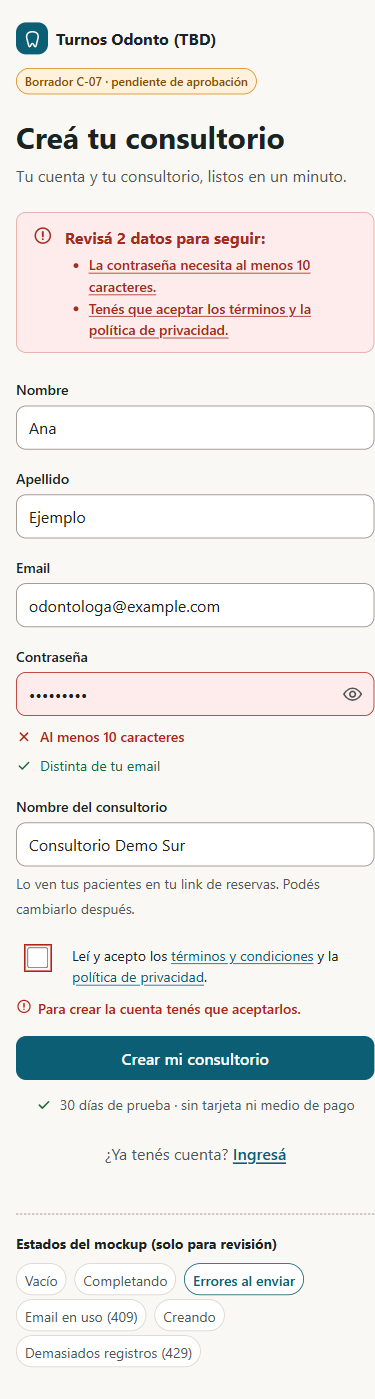
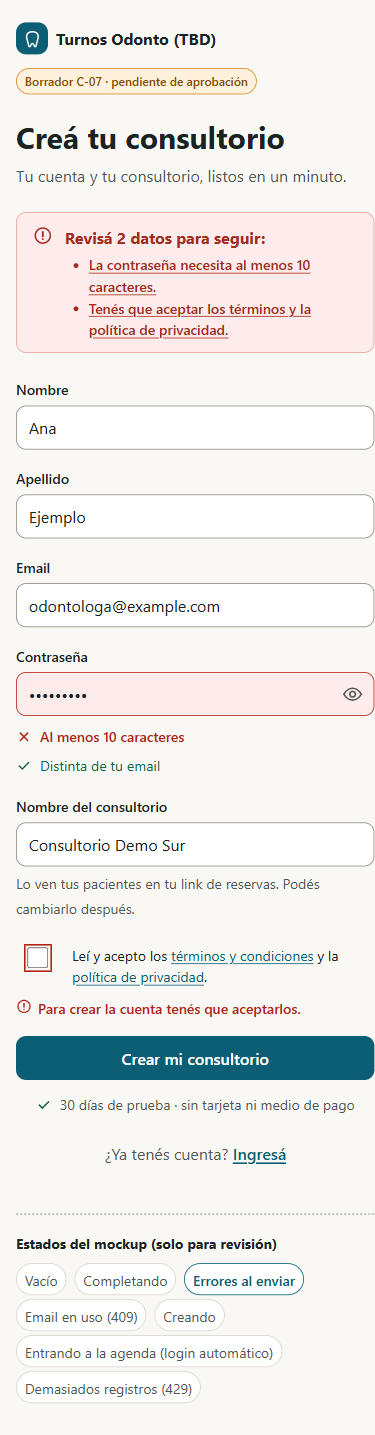
docs(auth): aplicar la revisión de Maxi a los mockups (C-07)
- Login automático después del registro: nuevo estado "entrando" en
  el registro y "registro-sin-login" como fallback en el login.
- Ruta /login: ingresar.html pasa a login.html, con links, capturas y
  README actualizados.
- "Cambiar contraseña" confirmado en el menú del shell; se quita la
  etiqueta "Nuevo en C-07".
- Capturas re-renderizadas (65) y Approval sigue en pending.

diff --git a/openspec/changes/frontend-auth/mockups/registro.html b/openspec/changes/frontend-auth/mockups/registro.html
@@ -10,7 +10,7 @@
 <script src="../../../../design-system/brand.js" defer></script>
 <script src="mockup.js" defer></script>
 </head>
-<body data-estados="normal:Vacío|escribiendo:Completando|validacion:Errores al enviar|email-en-uso:Email en uso (409)|enviando:Creando|limite:Demasiados registros (429)">
+<body data-estados="normal:Vacío|escribiendo:Completando|validacion:Errores al enviar|email-en-uso:Email en uso (409)|enviando:Creando|entrando:Entrando a la agenda (login automático)|limite:Demasiados registros (429)">
 <svg width="0" height="0" style="position:absolute" aria-hidden="true">
   <symbol id="i-tooth" viewBox="0 0 24 24"><path d="M12 4.5c-4 0-7 1.6-7 5.6 0 2.4.8 4 1.6 7.2.8 3.2.8 5.2 2 5.2 1.6 0 1.6-4 3.4-4s1.8 4 3.4 4c1.2 0 1.2-2 2-5.2.8-3.2 1.6-4.8 1.6-7.2 0-4-3-5.6-7-5.6z" fill="none" stroke="currentColor" stroke-width="1.8" stroke-linejoin="round"/></symbol>
   <symbol id="i-eye" viewBox="0 0 24 24"><path d="M2.5 12S6 5.5 12 5.5 21.5 12 21.5 12 18 18.5 12 18.5 2.5 12 2.5 12z" fill="none" stroke="currentColor" stroke-width="1.8" stroke-linejoin="round"/><circle cx="12" cy="12" r="3" fill="none" stroke="currentColor" stroke-width="1.8"/></symbol>
@@ -55,40 +55,40 @@
       </div>
       <div class="notice warn" role="alert" data-solo="limite">
         <svg aria-hidden="true"><use href="#i-clock"/></svg>
-        <div><strong>Se crearon varias cuentas desde esta conexión.</strong><p>Probá de nuevo en <b>45 minutos</b>. Si ya tenés cuenta, <a href="ingresar.html">ingresá</a>.</p></div>
+        <div><strong>Se crearon varias cuentas desde esta conexión.</strong><p>Probá de nuevo en <b>45 minutos</b>. Si ya tenés cuenta, <a href="login.html">ingresá</a>.</p></div>
       </div>
 
       <form novalidate>
         <div class="row-2">
-          <div class="field"><label for="nombre">Nombre</label><input class="input" id="nombre" autocomplete="given-name" data-valor="*=|escribiendo=Ana|validacion=Ana|email-en-uso=Ana|enviando=Ana|limite=Ana"></div>
-          <div class="field"><label for="apellido">Apellido</label><input class="input" id="apellido" autocomplete="family-name" data-valor="*=|escribiendo=Ejemplo|validacion=Ejemplo|email-en-uso=Ejemplo|enviando=Ejemplo|limite=Ejemplo"></div>
+          <div class="field"><label for="nombre">Nombre</label><input class="input" id="nombre" autocomplete="given-name" data-valor="*=|escribiendo=Ana|validacion=Ana|email-en-uso=Ana|enviando=Ana|entrando=Ana|limite=Ana"></div>
+          <div class="field"><label for="apellido">Apellido</label><input class="input" id="apellido" autocomplete="family-name" data-valor="*=|escribiendo=Ejemplo|validacion=Ejemplo|email-en-uso=Ejemplo|enviando=Ejemplo|entrando=Ejemplo|limite=Ejemplo"></div>
         </div>
         <div class="field">
           <label for="email">Email</label>
           <input class="input" id="email" type="email" autocomplete="username" inputmode="email" autocapitalize="none" spellcheck="false" aria-describedby="email-err" data-invalido="email-en-uso"
-            data-valor="*=|escribiendo=odontologa@example.com|validacion=odontologa@example.com|email-en-uso=odontologa@example.com|enviando=odontologa@example.com|limite=odontologa@example.com">
-          <p class="error-msg" id="email-err" data-solo="email-en-uso"><svg aria-hidden="true"><use href="#i-alert"/></svg><span>Ya hay una cuenta con este email. <a href="ingresar.html" style="color:inherit">Ingresá</a> o <a href="recuperar.html" style="color:inherit">restablecé tu contraseña</a>.</span></p>
+            data-valor="*=|escribiendo=odontologa@example.com|validacion=odontologa@example.com|email-en-uso=odontologa@example.com|enviando=odontologa@example.com|entrando=odontologa@example.com|limite=odontologa@example.com">
+          <p class="error-msg" id="email-err" data-solo="email-en-uso"><svg aria-hidden="true"><use href="#i-alert"/></svg><span>Ya hay una cuenta con este email. <a href="login.html" style="color:inherit">Ingresá</a> o <a href="recuperar.html" style="color:inherit">restablecé tu contraseña</a>.</span></p>
         </div>
         <div class="field">
           <label for="password">Contraseña</label>
           <div class="pw">
             <input class="input" id="password" type="password" autocomplete="new-password" aria-describedby="pw-reqs" data-invalido="validacion"
-              data-valor="*=|escribiendo=ficticia-segura-01|validacion=corta-123|email-en-uso=ficticia-segura-01|enviando=ficticia-segura-01|limite=ficticia-segura-01">
+              data-valor="*=|escribiendo=ficticia-segura-01|validacion=corta-123|email-en-uso=ficticia-segura-01|enviando=ficticia-segura-01|entrando=ficticia-segura-01|limite=ficticia-segura-01">
             <button class="toggle" type="button" aria-pressed="false" aria-label="Mostrar contraseña"><svg aria-hidden="true"><use href="#i-eye"/></svg></button>
           </div>
           <!-- Requisitos (RN-AU-01): ícono + texto; se anuncian como descripción del campo -->
           <ul class="reqs" id="pw-reqs" aria-label="Requisitos de la contraseña">
             <li data-solo="normal"><svg aria-hidden="true"><use href="#i-dot"/></svg>Al menos 10 caracteres</li>
             <li data-solo="normal"><svg aria-hidden="true"><use href="#i-dot"/></svg>Distinta de tu email</li>
-            <li class="ok" data-solo="escribiendo email-en-uso enviando limite"><svg aria-hidden="true"><use href="#i-check"/></svg>Al menos 10 caracteres <span class="sr">(cumplido)</span></li>
+            <li class="ok" data-solo="escribiendo email-en-uso enviando entrando limite"><svg aria-hidden="true"><use href="#i-check"/></svg>Al menos 10 caracteres <span class="sr">(cumplido)</span></li>
             <li class="no" data-solo="validacion"><svg aria-hidden="true"><use href="#i-x"/></svg>Al menos 10 caracteres <span class="sr">(falta)</span></li>
-            <li class="ok" data-solo="escribiendo validacion email-en-uso enviando limite"><svg aria-hidden="true"><use href="#i-check"/></svg>Distinta de tu email <span class="sr">(cumplido)</span></li>
+            <li class="ok" data-solo="escribiendo validacion email-en-uso enviando entrando limite"><svg aria-hidden="true"><use href="#i-check"/></svg>Distinta de tu email <span class="sr">(cumplido)</span></li>
           </ul>
         </div>
         <div class="field">
           <label for="consultorio">Nombre del consultorio</label>
           <input class="input" id="consultorio" autocomplete="organization" aria-describedby="cons-hint"
-            data-valor="*=|escribiendo=Consultorio Demo Sur|validacion=Consultorio Demo Sur|email-en-uso=Consultorio Demo Sur|enviando=Consultorio Demo Sur|limite=Consultorio Demo Sur">
+            data-valor="*=|escribiendo=Consultorio Demo Sur|validacion=Consultorio Demo Sur|email-en-uso=Consultorio Demo Sur|enviando=Consultorio Demo Sur|entrando=Consultorio Demo Sur|limite=Consultorio Demo Sur">
           <p class="hint" id="cons-hint">Lo ven tus pacientes en tu link de reservas. Podés cambiarlo después.</p>
         </div>
         <div class="check" data-error>
@@ -97,12 +97,14 @@
         </div>
         <p class="error-msg" id="terminos-err" data-solo="validacion" style="margin:calc(var(--space-2) * -1) 0 var(--space-4)"><svg aria-hidden="true"><use href="#i-alert"/></svg><span>Para crear la cuenta tenés que aceptarlos.</span></p>
 
-        <button class="btn btn-primary btn-block" type="submit" data-no="enviando">Crear mi consultorio</button>
+        <button class="btn btn-primary btn-block" type="submit" data-no="enviando entrando">Crear mi consultorio</button>
         <button class="btn btn-primary btn-block" type="button" disabled data-solo="enviando" aria-live="polite"><span class="spin" aria-hidden="true"></span>Creando tu consultorio…</button>
+        <!-- Login automático: tras el 201 del registro, el frontend llama a POST /auth/login con las mismas credenciales y va a la app -->
+        <button class="btn btn-primary btn-block" type="button" disabled data-solo="entrando" aria-live="polite"><span class="spin" aria-hidden="true"></span>¡Listo! Entrando a tu consultorio…</button>
         <p class="trial"><svg aria-hidden="true"><use href="#i-check"/></svg>30 días de prueba · sin tarjeta ni medio de pago</p>
       </form>
 
-      <p class="alt">¿Ya tenés cuenta? <a href="ingresar.html">Ingresá</a></p>
+      <p class="alt">¿Ya tenés cuenta? <a href="login.html">Ingresá</a></p>
     </div>
 
     <section class="review" aria-labelledby="rev-t">
@@ -115,7 +117,9 @@
   /* Solo mockup: el resaltado de error del checkbox aparece solo en "validacion" */
   document.addEventListener("DOMContentLoaded", function () {
     var c = document.querySelector(".check");
-    if (document.body.getAttribute("data-estado") !== "validacion") c.removeAttribute("data-error");
+    var e = document.body.getAttribute("data-estado");
+    if (e !== "validacion") c.removeAttribute("data-error");
+    if (["email-en-uso", "enviando", "entrando", "limite"].indexOf(e) >= 0) document.getElementById("terminos").checked = true;
   });
 </script>
 </body>

diff --git a/openspec/changes/frontend-auth/mockups/login.html b/openspec/changes/frontend-auth/mockups/login.html
@@ -3,14 +3,14 @@
 <head>
 <meta charset="utf-8">
 <meta name="viewport" content="width=device-width, initial-scale=1, viewport-fit=cover">
-<title>Ingresar · {brand} (mockup C-07)</title>
+<title>Login · {brand} (mockup C-07)</title>
 <link rel="icon" href="data:,">
 <link rel="stylesheet" href="../../../../design-system/tokens.css">
 <link rel="stylesheet" href="auth.css">
 <script src="../../../../design-system/brand.js" defer></script>
 <script src="mockup.js" defer></script>
 </head>
-<body data-estados="normal:Normal|enviando:Ingresando|credenciales:Email o contraseña incorrectos|bloqueada:Cuenta bloqueada (423)|limite:Demasiados intentos (429)|sin-conexion:Sin conexión|registrada:Después del registro|sesion-cerrada:Sesión cerrada|sesion-vencida:Sesión vencida|contrasena-cambiada:Contraseña cambiada|restaurando:Restaurando sesión">
+<body data-estados="normal:Normal|enviando:Ingresando|credenciales:Email o contraseña incorrectos|bloqueada:Cuenta bloqueada (423)|limite:Demasiados intentos (429)|sin-conexion:Sin conexión|registro-sin-login:Registro OK, login falló (fallback)|sesion-cerrada:Sesión cerrada|sesion-vencida:Sesión vencida|contrasena-cambiada:Contraseña cambiada|restaurando:Restaurando sesión">
 <svg width="0" height="0" style="position:absolute" aria-hidden="true">
   <symbol id="i-tooth" viewBox="0 0 24 24"><path d="M12 4.5c-4 0-7 1.6-7 5.6 0 2.4.8 4 1.6 7.2.8 3.2.8 5.2 2 5.2 1.6 0 1.6-4 3.4-4s1.8 4 3.4 4c1.2 0 1.2-2 2-5.2.8-3.2 1.6-4.8 1.6-7.2 0-4-3-5.6-7-5.6z" fill="none" stroke="currentColor" stroke-width="1.8" stroke-linejoin="round"/></symbol>
   <symbol id="i-eye" viewBox="0 0 24 24"><path d="M2.5 12S6 5.5 12 5.5 21.5 12 21.5 12 18 18.5 12 18.5 2.5 12 2.5 12z" fill="none" stroke="currentColor" stroke-width="1.8" stroke-linejoin="round"/><circle cx="12" cy="12" r="3" fill="none" stroke="currentColor" stroke-width="1.8"/></symbol>
@@ -72,9 +72,9 @@
         <svg aria-hidden="true"><use href="#i-offline"/></svg>
         <div><strong>Sin conexión.</strong><p>Para ingresar necesitás internet. Cuando vuelva la conexión, podés intentar de nuevo.</p></div>
       </div>
-      <div class="notice success" role="status" data-solo="registrada">
+      <div class="notice success" role="status" data-solo="registro-sin-login">
         <svg aria-hidden="true"><use href="#i-check-circle"/></svg>
-        <div><strong>¡Tu consultorio está listo!</strong><p>Ingresá con tu email y contraseña para empezar los 30 días de prueba.</p></div>
+        <div><strong>¡Tu consultorio está listo!</strong><p>No pudimos abrir tu sesión automáticamente. Ingresá con el email y la contraseña que acabás de crear.</p></div>
       </div>
       <div class="notice info" role="status" data-solo="sesion-cerrada">
         <svg aria-hidden="true"><use href="#i-info"/></svg>
@@ -93,7 +93,7 @@
         <div class="field">
           <label for="email">Email</label>
           <input class="input" id="email" type="email" autocomplete="username" inputmode="email" autocapitalize="none" spellcheck="false"
-            data-valor="*=|enviando=odontologa@example.com|credenciales=odontologa@example.com|bloqueada=odontologa@example.com|limite=odontologa@example.com|registrada=odontologa@example.com|sesion-vencida=odontologa@example.com|contrasena-cambiada=odontologa@example.com">
+            data-valor="*=|enviando=odontologa@example.com|credenciales=odontologa@example.com|bloqueada=odontologa@example.com|limite=odontologa@example.com|registro-sin-login=odontologa@example.com|sesion-vencida=odontologa@example.com|contrasena-cambiada=odontologa@example.com">
         </div>
         <div class="field">
           <div class="label-row"><label for="password">Contraseña</label><a href="recuperar.html">¿La olvidaste?</a></div>

diff --git a/openspec/changes/frontend-auth/mockups/cambiar-contrasena.html b/openspec/changes/frontend-auth/mockups/cambiar-contrasena.html
@@ -98,11 +98,11 @@
       <li><a class="sidelink" href="#"><svg><use href="#i-download"/></svg>Exportar mis datos</a></li>
     </ul>
     <div class="grow"></div>
-    <!-- Nuevo en C-07: "Cambiar contraseña" en el bloque de cuenta, arriba de "Cerrar sesión" -->
+    <!-- C-07 (confirmado por Maxi): "Cambiar contraseña" en el bloque de cuenta, arriba de "Cerrar sesión". Toca el shell de C-06. -->
     <div class="account">
       <p>Dra. Ejemplo · Consultorio Demo</p>
       <a class="sidelink" href="#" aria-current="page"><svg><use href="#i-key"/></svg>Cambiar contraseña</a>
-      <a class="sidelink" href="ingresar.html?estado=sesion-cerrada"><svg><use href="#i-logout"/></svg>Cerrar sesión</a>
+      <a class="sidelink" href="login.html?estado=sesion-cerrada"><svg><use href="#i-logout"/></svg>Cerrar sesión</a>
     </div>
   </nav>
 
@@ -193,8 +193,8 @@
   </ul>
   <hr>
   <p class="account">Dra. Ejemplo · Consultorio Demo</p>
-  <a href="#"><svg><use href="#i-key"/></svg>Cambiar contraseña<span class="nuevo">Nuevo en C-07</span></a>
-  <a href="ingresar.html?estado=sesion-cerrada"><svg><use href="#i-logout"/></svg>Cerrar sesión</a>
+  <a href="#"><svg><use href="#i-key"/></svg>Cambiar contraseña</a>
+  <a href="login.html?estado=sesion-cerrada"><svg><use href="#i-logout"/></svg>Cerrar sesión</a>
 </div>
 <script>
   document.addEventListener("DOMContentLoaded", function () {

diff --git a/openspec/changes/frontend-auth/mockups/recuperar.html b/openspec/changes/frontend-auth/mockups/recuperar.html
@@ -28,7 +28,7 @@
 
     <!-- Pedido del link -->
     <div class="auth-card" data-no="enviado">
-      <a class="btn btn-ghost" href="ingresar.html" style="margin:0 0 var(--space-3) calc(var(--space-4) * -1)"><svg aria-hidden="true"><use href="#i-left"/></svg>Volver a ingresar</a>
+      <a class="btn btn-ghost" href="login.html" style="margin:0 0 var(--space-3) calc(var(--space-4) * -1)"><svg aria-hidden="true"><use href="#i-left"/></svg>Volver a ingresar</a>
       <h1>Restablecé tu contraseña</h1>
       <p class="lede">Escribí el email de tu cuenta y te mandamos un link para crear una contraseña nueva.</p>
 
@@ -55,7 +55,7 @@
       <p>Si hay una cuenta con <b>odontologa@example.com</b>, te llega un link para crear una contraseña nueva. <b>Vence en 30 minutos</b> y sirve una sola vez.</p>
       <p>¿No llegó en unos minutos? Revisá la carpeta de spam o pedí otro link.</p>
       <div class="actions">
-        <a class="btn btn-primary btn-block" href="ingresar.html">Volver a ingresar</a>
+        <a class="btn btn-primary btn-block" href="login.html">Volver a ingresar</a>
         <a class="btn btn-secondary btn-block" href="recuperar.html">Pedir otro link</a>
       </div>
     </div>

diff --git a/openspec/changes/frontend-auth/mockups/recuperar-confirmar.html b/openspec/changes/frontend-auth/mockups/recuperar-confirmar.html
@@ -80,7 +80,7 @@
       <p>Puede que haya vencido (dura 30 minutos) o que ya lo hayas usado. Pedí uno nuevo y abrilo apenas te llegue.</p>
       <div class="actions">
         <a class="btn btn-primary btn-block" href="recuperar.html">Pedir un link nuevo</a>
-        <a class="btn btn-ghost btn-block" href="ingresar.html">Volver a ingresar</a>
+        <a class="btn btn-ghost btn-block" href="login.html">Volver a ingresar</a>
       </div>
     </div>
 

diff --git a/openspec/changes/frontend-auth/mockups/README.md b/openspec/changes/frontend-auth/mockups/README.md
@@ -21,13 +21,13 @@ Cada archivo elige el estado con `?estado=…`. Al pie de cada pantalla hay una 
 
 | Pantalla | Archivo | Estados (`?estado=`) |
 |---|---|---|
-| Ingresar (`/ingresar`) | `ingresar.html` | `normal`, `enviando`, `credenciales` (401 genérico), `bloqueada` (423 con minutos restantes), `limite` (429), `sin-conexion`, `registrada` (después del registro), `sesion-cerrada`, `sesion-vencida` (refresh fallido), `contrasena-cambiada`, `restaurando` (refresh al recargar) |
-| Crear cuenta (`/registro`) | `registro.html` | `normal`, `escribiendo` (requisitos en vivo), `validacion` (resumen de errores + campos), `email-en-uso` (409), `enviando`, `limite` (429) |
+| Login (`/login`) | `login.html` | `normal`, `enviando`, `credenciales` (401 genérico), `bloqueada` (423 con minutos restantes), `limite` (429), `sin-conexion`, `registro-sin-login` (fallback si falla el login automático), `sesion-cerrada`, `sesion-vencida` (refresh fallido), `contrasena-cambiada`, `restaurando` (refresh al recargar) |
+| Crear cuenta (`/registro`) | `registro.html` | `normal`, `escribiendo` (requisitos en vivo), `validacion` (resumen de errores + campos), `email-en-uso` (409), `enviando`, `entrando` (login automático después del 201), `limite` (429) |
 | Pedir recuperación (`/recuperar`) | `recuperar.html` | `normal`, `enviando`, `enviado` (202, mismo mensaje exista o no la cuenta), `limite` (429) |
 | Contraseña nueva (`/recuperar#token=…`) | `recuperar-confirmar.html` | `normal`, `no-coinciden`, `password-debil` (400), `enviando`, `token-invalido` (400, un solo mensaje para vencido, usado o revocado) |
 | Cambiar contraseña (dentro de la app) | `cambiar-contrasena.html` | `normal`, `actual-invalida` (400), `password-debil` (400), `enviando`, `limite` (429), `mas` (hoja "Más" en mobile) |
 
-**Cerrar sesión** no tiene pantalla propia: es el botón que ya está en el app-shell de C-06. Llama a `POST /auth/logout` y lleva a `ingresar.html?estado=sesion-cerrada`. No pide confirmación porque no se pierde nada y se vuelve a entrar en un paso.
+**Cerrar sesión** no tiene pantalla propia: es el botón que ya está en el app-shell de C-06. Llama a `POST /auth/logout` y lleva a `/login` (`login.html?estado=sesion-cerrada`). No pide confirmación porque no se pierde nada y se vuelve a entrar en un paso.
 
 ## Decisiones para revisar
 
@@ -35,27 +35,27 @@ Cada archivo elige el estado con `?estado=…`. Al pie de cada pantalla hay una 
 
    | Código | HTTP | Dónde | Texto |
    |---|---|---|---|
-   | `CREDENCIALES_INVALIDAS` | 401 | Ingresar, aviso arriba | "Email o contraseña incorrectos." Nunca marca un campo puntual (RN-AU-03). La contraseña se vacía; el email se conserva. |
-   | `CUENTA_BLOQUEADA` | 423 | Ingresar, aviso arriba | "Pausamos el ingreso por seguridad", con los minutos restantes que devuelve el backend (`minutosRestantes`, C-05 D1) y un link para restablecer la contraseña. |
+   | `CREDENCIALES_INVALIDAS` | 401 | Login, aviso arriba | "Email o contraseña incorrectos." Nunca marca un campo puntual (RN-AU-03). La contraseña se vacía; el email se conserva. |
+   | `CUENTA_BLOQUEADA` | 423 | Login, aviso arriba | "Pausamos el ingreso por seguridad", con los minutos restantes que devuelve el backend (`minutosRestantes`, C-05 D1) y un link para restablecer la contraseña. |
    | 429 + `Retry-After` | 429 | Todas las pantallas públicas y cambiar contraseña | Aviso con el tiempo de espera calculado desde `Retry-After`. |
    | `EMAIL_EN_USO` | 409 | Registro, debajo del email | Ofrece "Ingresá" o "restablecé tu contraseña". |
    | `PASSWORD_DEBIL` | 400 | Registro, contraseña nueva y cambiar contraseña | Requisito en rojo con ícono ✕ + campo inválido. |
    | `TERMINOS_NO_ACEPTADOS` | 400 | Registro | Se valida antes de enviar. Si igual llega del backend, se muestra igual que en `validacion`. |
    | `TOKEN_INVALIDO` | 400 | Contraseña nueva | Pantalla "Este link ya no sirve" con "Pedir un link nuevo". |
    | `PASSWORD_ACTUAL_INVALIDA` | 400 | Cambiar contraseña, debajo del campo actual | "La contraseña actual no es correcta." |
-   | `SESION_EXPIRADA` | 401 | Ingresar | Aviso "Tu sesión venció"; después del login vuelve a la ruta donde estaba. |
+   | `SESION_EXPIRADA` | 401 | Login | Aviso "Tu sesión venció"; después del login vuelve a la ruta donde estaba. |
 
 2. **Requisitos de contraseña en vivo** (RN-AU-01): ícono + texto (círculo pendiente, ✓ cumplido, ✕ falta) y texto oculto para lectores de pantalla; nunca solo color. En "contraseña nueva" desde el link de recuperación no se conoce el email, así que "Distinta del email de tu cuenta" queda como indicación fija y la valida el backend.
-3. **Después del registro**: C-04 no devuelve tokens en el registro, así que se lleva al login con el email cargado y el aviso "¡Tu consultorio está listo!". Si se decide login automático (FL-01 lo deja abierto), ese aviso desaparece.
-4. **Cambiar contraseña en la navegación**: se agrega **"Cambiar contraseña"** al bloque de cuenta, arriba de "Cerrar sesión", en la barra lateral (desktop) y en la hoja "Más" (mobile). Es un agregado al app-shell aprobado en C-06: **necesita el OK de Maxi y avisarle a Nacho**.
-5. **Al cambiar o restablecer la contraseña** se avisa antes de enviar que se cierra la sesión en todos los dispositivos, también en este (RN-AU-05, US-005). Al terminar, se lleva a `ingresar.html?estado=contrasena-cambiada`.
+3. **Después del registro se entra directo** (decidido por Maxi, 2026-11-20). El backend no cambia: apenas recibe el 201 de `POST /auth/registro`, el frontend llama a `POST /auth/login` con las mismas credenciales (estado `entrando` del registro) y entra a la app; como es el primer ingreso sin prestaciones, FL-01 lo lleva al onboarding de C-09. Si ese login falla, va a `/login` con el email cargado y el aviso del estado `registro-sin-login`.
+4. **Cambiar contraseña en la navegación** (confirmado por Maxi, 2026-11-20): **"Cambiar contraseña"** va en el bloque de cuenta, arriba de "Cerrar sesión", en la barra lateral (desktop) y en la hoja "Más" (mobile). Toca el app-shell de C-06: se le avisó a Nacho en el PR.
+5. **Al cambiar o restablecer la contraseña** se avisa antes de enviar que se cierra la sesión en todos los dispositivos, también en este (RN-AU-05, US-005). Al terminar, se lleva a `/login` (`login.html?estado=contrasena-cambiada`).
 6. **Restauración de sesión**: al recargar, mientras corre `POST /auth/refresh`, se muestra "Abriendo tu agenda…" (`aria-busy`). Si falla, se va al login sin aviso de error. El access token vive solo en memoria (FL-01).
-7. **Sin conexión**: ingresar necesita red. Se avisa y el botón queda deshabilitado, coherente con el aviso offline de C-06.
+7. **Sin conexión**: el login necesita red. Se avisa y el botón queda deshabilitado, coherente con el aviso offline de C-06.
 
 ## (TBD) y datos ficticios
 
 - Nombre y logo provisorios: `BRAND_NAME` de `design-system/brand.js` (hoy "Turnos Odonto (TBD)") y el isotipo de diente de C-06.
-- Los links a **términos y condiciones** y **política de privacidad** apuntan a páginas que todavía no existen. Sus textos dependen de la asesoría legal (PA-06). El registro no puede salir a producción sin esos textos y su versión (C-04 guarda la versión aceptada).
+- Los links a **términos y condiciones** y **política de privacidad** apuntan a páginas que todavía no existen. Según DD-28, el equipo escribe un borrador marcado "pendiente de revisión legal" y después lo revisa un abogado. El registro no se publica con datos reales sin esa revisión (C-04 guarda la versión aceptada).
 - Datos ficticios: "Ana Ejemplo", `odontologa@example.com`, "Consultorio Demo Sur", "Dra. Ejemplo · Consultorio Demo". Las contraseñas de ejemplo son cadenas sin uso real.
 - Los minutos de espera (12, 1, 45, 40 y 15) son ejemplos; en producción salen de la respuesta del backend.
 
@@ -67,11 +67,11 @@ Abrí cualquier `.html` directo en el navegador: funciona con `file://`. Tambié
 npx --yes http-server -p 8765 -a 127.0.0.1
 ```
 
-Después navegá a `http://127.0.0.1:8765/openspec/changes/frontend-auth/mockups/ingresar.html` y usá la franja de estados.
+Después navegá a `http://127.0.0.1:8765/openspec/changes/frontend-auth/mockups/login.html` y usá la franja de estados.
 
 ## Capturas
 
-`previews/<pantalla>-<estado>-mobile-390x844.png` y `previews/<pantalla>-<estado>-desktop-1440x900.png` (página completa, 63 capturas; el estado `mas` existe solo en mobile). Verificado con Playwright en cada estado:
+`previews/<pantalla>-<estado>-mobile-390x844.png` y `previews/<pantalla>-<estado>-desktop-1440x900.png` (página completa, 65 capturas; el estado `mas` existe solo en mobile). Verificado con Playwright en cada estado:
 
 - Sin scroll horizontal a 390 ni a 1440 px.
 - Sin errores de consola ni recursos fallidos.
@@ -82,8 +82,8 @@ Después navegá a `http://127.0.0.1:8765/openspec/changes/frontend-auth/mockups
 
 - [ ] Textos en es-AR con voseo; ningún mensaje confirma si un email tiene cuenta, salvo `EMAIL_EN_USO` y el bloqueo (exigidos por US-001 y US-002).
 - [ ] Tabla de mensajes por código de error (decisión 1).
-- [ ] "Cambiar contraseña" agregado al app-shell de C-06 (decisión 4).
-- [ ] Destino después del registro: login con aviso o login automático (decisión 3).
+- [ ] Login automático después del registro y fallback (decisión 3).
+- [ ] Ruta `/login` en textos, links y README.
 - [ ] Solo tokens del sistema de diseño rev. 1; foco visible; objetivos ≥ 44 px; estados con ícono + texto, no solo color; `prefers-reduced-motion` (el spinner queda quieto).
 - [ ] `autocomplete` correcto: `username`, `current-password`, `new-password`.
 - [ ] Sin datos reales ni afirmaciones de 2FA, certificaciones o cumplimiento legal.

diff --git a/openspec/changes/frontend-auth/design.md b/openspec/changes/frontend-auth/design.md
@@ -12,15 +12,15 @@
 
 ## Decisions
 
-Las decisiones de UI que salen de los mockups están en `mockups/README.md` §Decisiones para revisar. Dos de ellas afectan a otros changes y necesitan el OK de Maxi:
+Las decisiones de UI que salen de los mockups están en `mockups/README.md` §Decisiones para revisar. Maxi resolvió las tres que afectaban a otros changes (revisión del PR #14, 2026-11-20):
 
-- **Navegación**: se agrega "Cambiar contraseña" al bloque de cuenta del app-shell de C-06, en la barra lateral y en la hoja "Más".
-- **Después del registro**: se lleva al login con el email cargado. La alternativa es el login automático, que FL-01 deja abierto.
+- **Después del registro se entra directo**: el backend no cambia. Con el 201 de `POST /auth/registro`, el frontend llama a `POST /auth/login` con las mismas credenciales y entra a la app. Si ese login falla, lleva a `/login` con el email cargado y un aviso.
+- **La ruta del login es `/login`**, igual que en el shell de C-06.
+- **"Cambiar contraseña" va en el menú del shell**, arriba de "Cerrar sesión", en la barra lateral y en la hoja "Más". Toca el shell de C-06 (Nacho).
 
 ## Open Questions
 
-- Textos y versión de términos y condiciones y política de privacidad (PA-06): el registro no puede publicarse sin ellos.
-- ¿Login automático después del registro? Hoy C-04 no devuelve tokens en `POST /auth/registro`.
+- Textos y versión de términos y condiciones y política de privacidad: según DD-28, el equipo escribe un borrador marcado "pendiente de revisión legal" y lo revisa un abogado. El registro no se publica con datos reales sin esa revisión.
 
 ## UI Mockups
 
